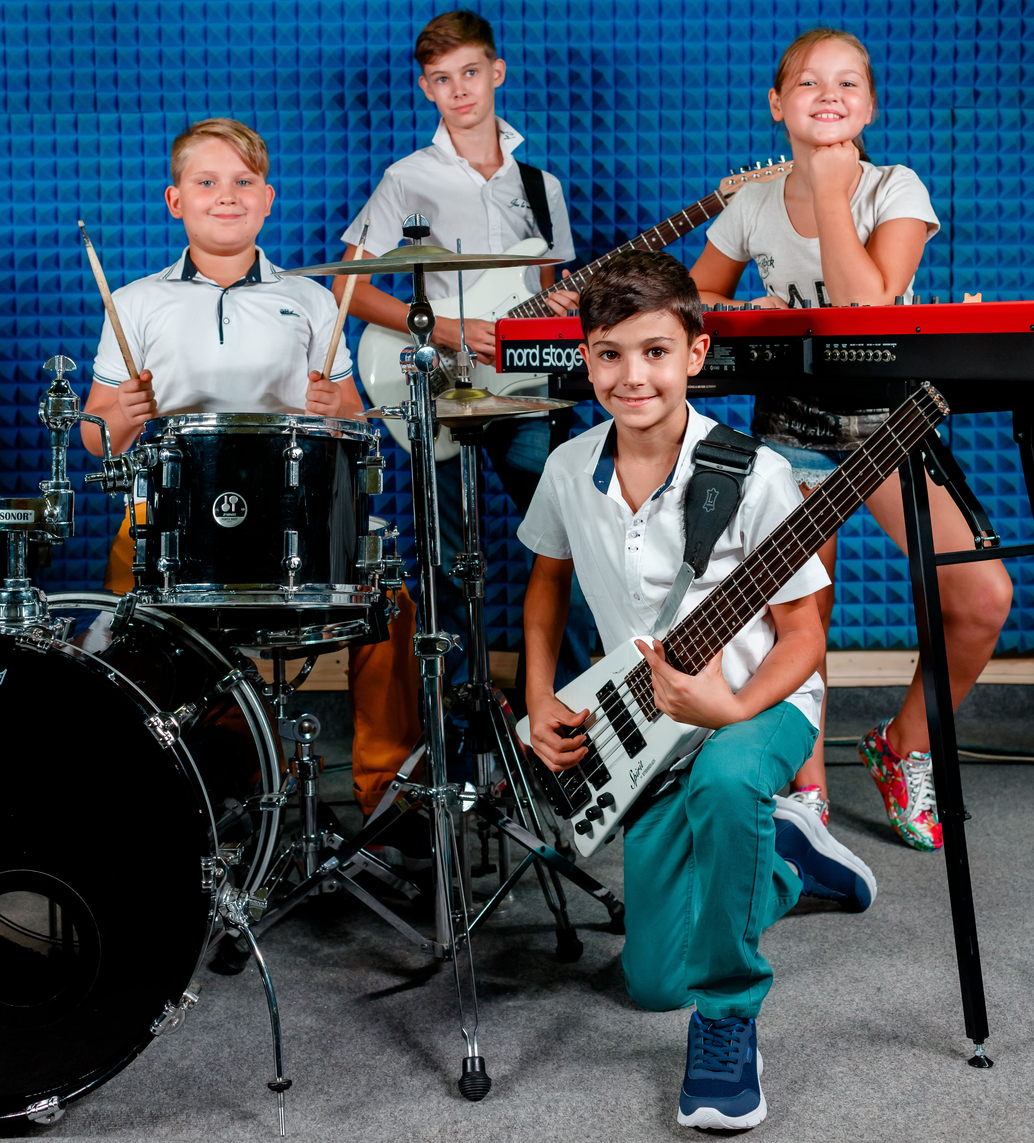
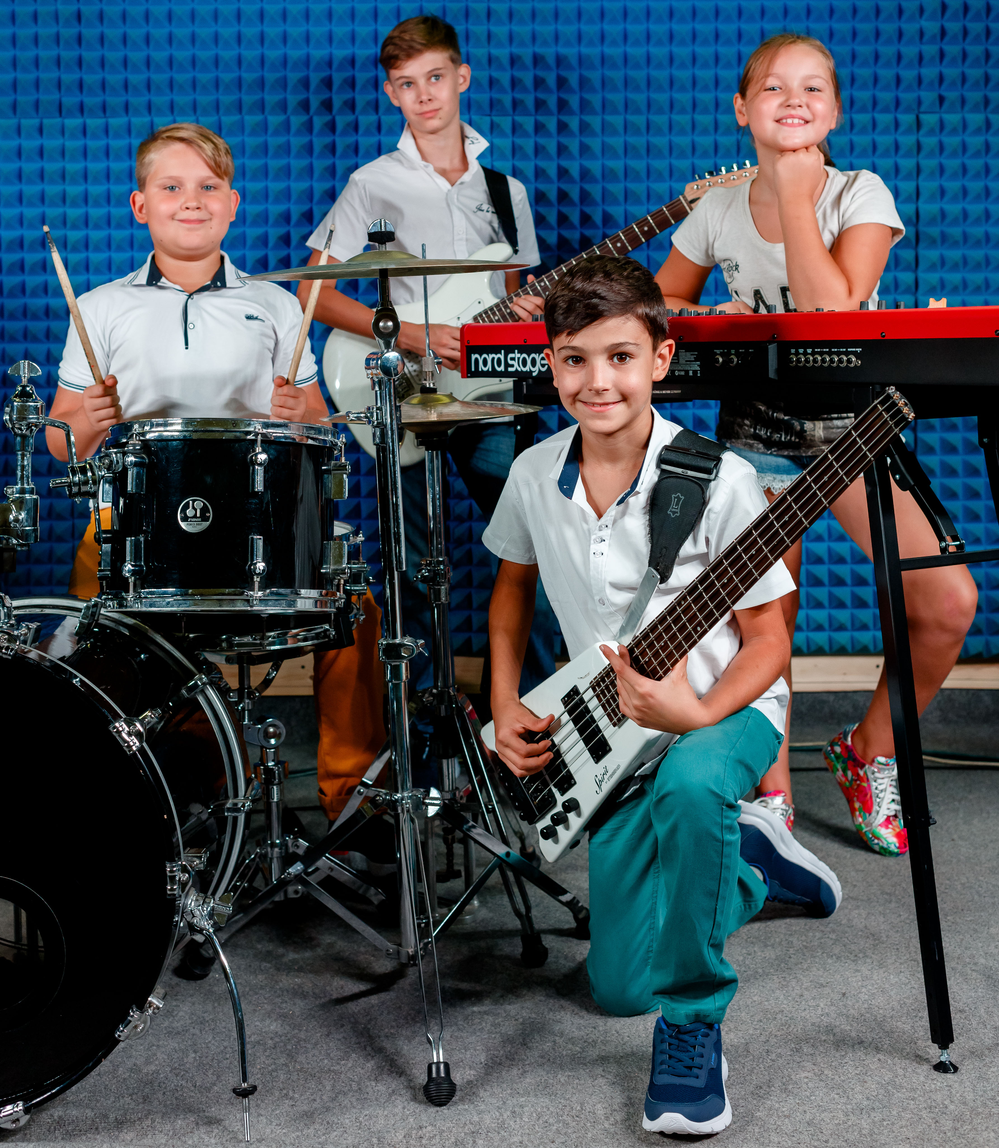
ptlimized img

diff --git a/src/pages/homepage.scss b/src/pages/homepage.scss
@@ -4,7 +4,7 @@
   align-items: center;
   background-image: linear-gradient(
                   rgba(10, 67, 151, 0.35),
-                  rgba(10, 67, 151, 0.65)), url("../assets/images/007A9978-cut.jpg");
+                  rgba(10, 67, 151, 0.65)), url("../assets/images/007A9978-cut2-min.jpg");
   background-repeat: no-repeat;
   background-position: center;
   background-size: cover;
